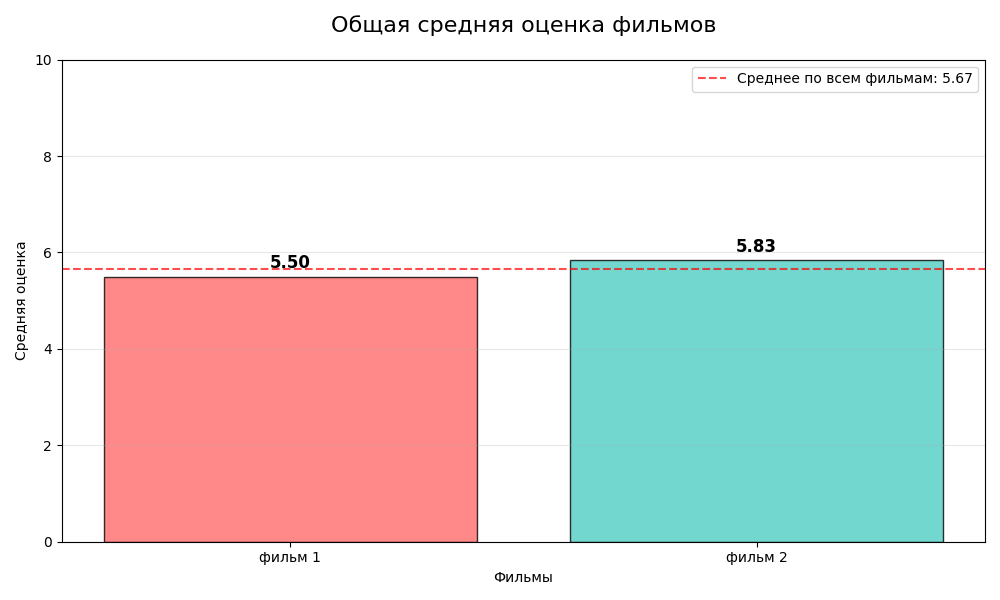
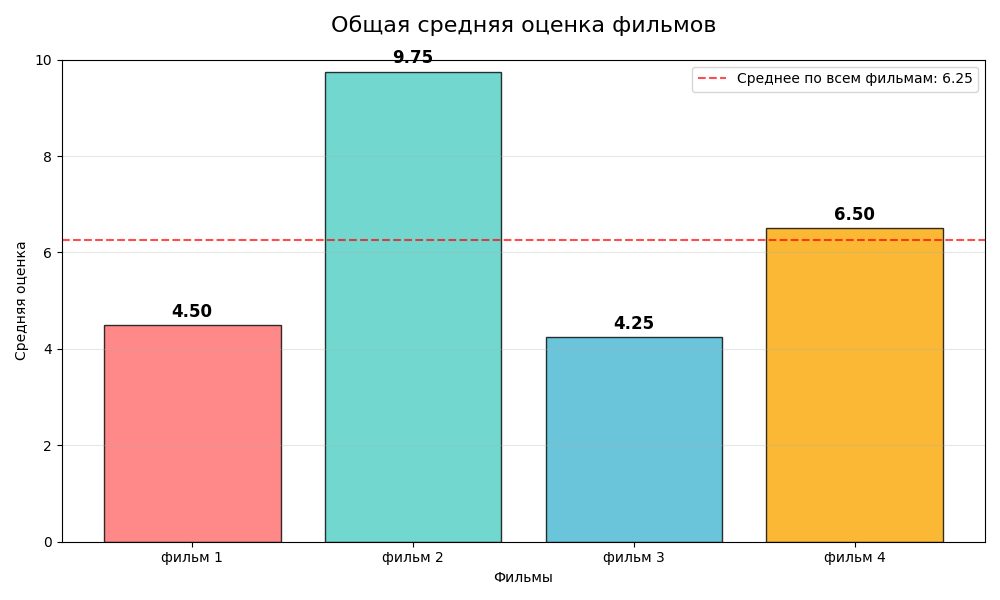
fixed hardcoded tablenames

diff --git a/interface.py b/interface.py
@@ -10,7 +10,7 @@ os.makedirs('графики', exist_ok=True)
 def plot_average_scores(data):
     fig, ax = plt.subplots(figsize=(12, 8))
     
-    categories = list(data['фильм 1'].keys())
+    categories = list(list(data.values())[0].keys())
     films = list(data.keys())
     
     # Вычисляем средние оценки для каждого фильма по категориям
@@ -24,12 +24,17 @@ def plot_average_scores(data):
     
     # Настройки для группированных столбцов
     x = np.arange(len(categories))
-    width = 0.35
+    width =  1/ (1 +len(data))
     
-    # Создаем столбцы для каждого фильма
-    bars1 = ax.bar(x - width/2, averages['фильм 1'], width, label='Фильм 1', alpha=0.8)
-    bars2 = ax.bar(x + width/2, averages['фильм 2'], width, label='Фильм 2', alpha=0.8)
-    
+   # Создаем столбцы для каждого фильма
+    colors = ['#FF6B6B', '#4ECDC4', '#45B7D1', '#F9A602', '#96CEB4', '#FFEAA7']  # Добавляем больше цветов на случай большего количества фильмов
+    bars = []
+
+    for i, (film_name, film_avg) in enumerate(averages.items()):
+        offset = width * (i - (len(averages) - 1) / 2)  # Центрируем столбцы
+        bar = ax.bar(x + offset, film_avg, width, label=film_name, alpha=0.8, color=colors[i % len(colors)])
+        bars.append(bar)
+
     # Настройка внешнего вида
     ax.set_xlabel('Категории оценки')
     ax.set_ylabel('Средняя оценка')
@@ -37,58 +42,61 @@ def plot_average_scores(data):
     ax.set_xticks(x)
     ax.set_xticklabels(categories)
     ax.legend()
-    
+
     # Добавляем значения на столбцы
-    for bar in bars1 + bars2:
-        height = bar.get_height()
-        ax.annotate(f'{height:.1f}',
-                   xy=(bar.get_x() + bar.get_width() / 2, height),
-                   xytext=(0, 3),
-                   textcoords="offset points",
-                   ha='center', va='bottom')
-    
+    for bar_group in bars:
+        for bar in bar_group:
+            height = bar.get_height()
+            ax.annotate(f'{height:.1f}',
+                    xy=(bar.get_x() + bar.get_width() / 2, height),
+                    xytext=(0, 3),
+                    textcoords="offset points",
+                    ha='center', va='bottom')
+
     plt.xticks(rotation=45)
     plt.tight_layout()
     plt.savefig('графики/столбчатая_диаграмма_средних_оценок.png')
 
 # Вариант 2: Радарная диаграмма для сравнения фильмов
 def plot_radar_chart(data):
-    categories = list(data['фильм 1'].keys())
+    categories = list(list(data.values())[0].keys())
     N = len(categories)
+    films = list(data.keys())
     
-    # Вычисляем средние оценки
-    avg_film1 = []
-    avg_film2 = []
-    for category in categories:
-        scores1 = [rate['value'] for rate in data['фильм 1'][category]]
-        scores2 = [rate['value'] for rate in data['фильм 2'][category]]
-        avg_film1.append(sum(scores1) / len(scores1))
-        avg_film2.append(sum(scores2) / len(scores2))
+    # Цвета для разных фильмов
+    colors = ['#FF6B6B', '#4ECDC4', '#45B7D1', '#F9A602', '#96CEB4', '#FFEAA7']
     
     # Углы для радарной диаграммы
     angles = [n / float(N) * 2 * np.pi for n in range(N)]
     angles += angles[:1]  # Замыкаем круг
     
-    avg_film1 += avg_film1[:1]
-    avg_film2 += avg_film2[:1]
-    
     fig, ax = plt.subplots(figsize=(10, 10), subplot_kw=dict(polar=True))
     
-    # Рисуем графики
-    ax.plot(angles, avg_film1, 'o-', linewidth=2, label='Фильм 1')
-    ax.fill(angles, avg_film1, alpha=0.25)
-    ax.plot(angles, avg_film2, 'o-', linewidth=2, label='Фильм 2')
-    ax.fill(angles, avg_film2, alpha=0.25)
+    # Рисуем графики для каждого фильма
+    for i, film in enumerate(films):
+        # Вычисляем средние оценки для текущего фильма
+        avg_scores = []
+        for category in categories:
+            scores = [rate['value'] for rate in data[film][category]]
+            avg_score = sum(scores) / len(scores)
+            avg_scores.append(avg_score)
+        
+        # Замыкаем круг для радарной диаграммы
+        avg_scores += avg_scores[:1]
+        
+        # Рисуем график
+        ax.plot(angles, avg_scores, 'o-', linewidth=2, label=film, color=colors[i % len(colors)])
+        ax.fill(angles, avg_scores, alpha=0.25, color=colors[i % len(colors)])
     
     # Настройка внешнего вида
     ax.set_thetagrids(np.degrees(angles[:-1]), categories)
     ax.set_ylim(0, 10)
     ax.set_title('Сравнение фильмов по категориям оценок', size=15, pad=20)
-    ax.legend(loc='upper right')
+    ax.legend(loc='upper right', bbox_to_anchor=(1.3, 1.0))
     
     plt.tight_layout()
-    plt.savefig('графики/радарная_диаграмма.png')
-
+    plt.savefig('графики/радарная_диаграмма.png', dpi=300, bbox_inches='tight')
+    plt.close()
 # Функция для расчета общей средней оценки фильма
 def calculate_overall_average(film_data):
     all_scores = []
@@ -105,7 +113,7 @@ def plot_overall_average_scores(data):
     overall_averages = [calculate_overall_average(data[film]) for film in films]
     
     # Цвета для столбцов
-    colors = ['#FF6B6B', '#4ECDC4']
+    colors = ['#FF6B6B', '#4ECDC4', '#45B7D1', '#F9A602', '#96CEB4', '#FFEAA7']
     
     # Создаем столбцы
     bars = ax.bar(films, overall_averages, color=colors, alpha=0.8, edgecolor='black', linewidth=1)
@@ -145,38 +153,54 @@ def plot_overall_average_scores(data):
 
 # Вариант 5: Круговые диаграммы для каждого фильма
 def plot_pie_charts_comparison(data):
-    fig, (ax1, ax2) = plt.subplots(1, 2, figsize=(15, 7))
+    films = list(data.keys())
+    categories = list(list(data.values())[0].keys())
+    colors = ['#FF9999', '#66B3FF', '#99FF99', '#FFCC99', '#FF99CC', '#C9A0DC']
     
-    categories = list(data['фильм 1'].keys())
-    colors = ['#FF9999', '#66B3FF', '#99FF99', '#FFCC99']
+    # Определяем количество строк и столбцов (максимум 2 в строке)
+    n_films = len(films)
+    n_cols = min(2, n_films)  # Максимум 2 столбца
+    n_rows = (n_films + n_cols - 1) // n_cols  # Округление вверх
     
-    # Для первого фильма
-    film1_avgs = []
-    for category in categories:
-        scores = [rate['value'] for rate in data['фильм 1'][category]]
-        film1_avgs.append(sum(scores) / len(scores))
+    # Создаем сетку подграфиков
+    fig, axes = plt.subplots(n_rows, n_cols, figsize=(5 * n_cols, 5 * n_rows))
     
-    wedges1, texts1, autotexts1 = ax1.pie(film1_avgs, labels=categories, colors=colors,
+    # Преобразуем axes в плоский массив для удобства
+    if n_rows == 1 and n_cols == 1:
+        axes = np.array([axes])
+    axes = axes.flatten()
+    
+    # Для каждого фильма
+    for i, film in enumerate(films):
+        ax = axes[i]
+        
+        # Вычисляем средние оценки для текущего фильма
+        film_avgs = []
+        for category in categories:
+            scores = [rate['value'] for rate in data[film][category]]
+            film_avgs.append(sum(scores) / len(scores))
+        
+        # Создаем круговую диаграмму
+        wedges, texts, autotexts = ax.pie(film_avgs, labels=categories, colors=colors,
                                          autopct='%1.1f%%', startangle=90)
-    ax1.set_title('Фильм 1: Распределение средних оценок по категориям', fontsize=14)
-    
-    # Для второго фильма
-    film2_avgs = []
-    for category in categories:
-        scores = [rate['value'] for rate in data['фильм 2'][category]]
-        film2_avgs.append(sum(scores) / len(scores))
-    
-    wedges2, texts2, autotexts2 = ax2.pie(film2_avgs, labels=categories, colors=colors,
-                                         autopct='%1.1f%%', startangle=90)
-    ax2.set_title('Фильм 2: Распределение средних оценок по категориям', fontsize=14)
-    
-    # Делаем центр круга пустым для лучшего вида
-    for ax in [ax1, ax2]:
+        ax.set_title(f'{film}', fontsize=14, pad=20)
+        
+        # Делаем центр круга пустым для лучшего вида
         centre_circle = plt.Circle((0,0), 0.70, fc='white')
         ax.add_artist(centre_circle)
+        
+        # Настраиваем внешний вид текста
+        for autotext in autotexts:
+            autotext.set_color('black')
+            autotext.set_fontweight('bold')
+    
+    # Скрываем пустые subplots, если они есть
+    for i in range(len(films), len(axes)):
+        axes[i].set_visible(False)
     
     plt.tight_layout()
-    plt.savefig('графики/круговые_диаграммы.png')
+    plt.savefig('графики/круговые_диаграммы.png', dpi=300, bbox_inches='tight')
+    plt.close()
 
 
 
